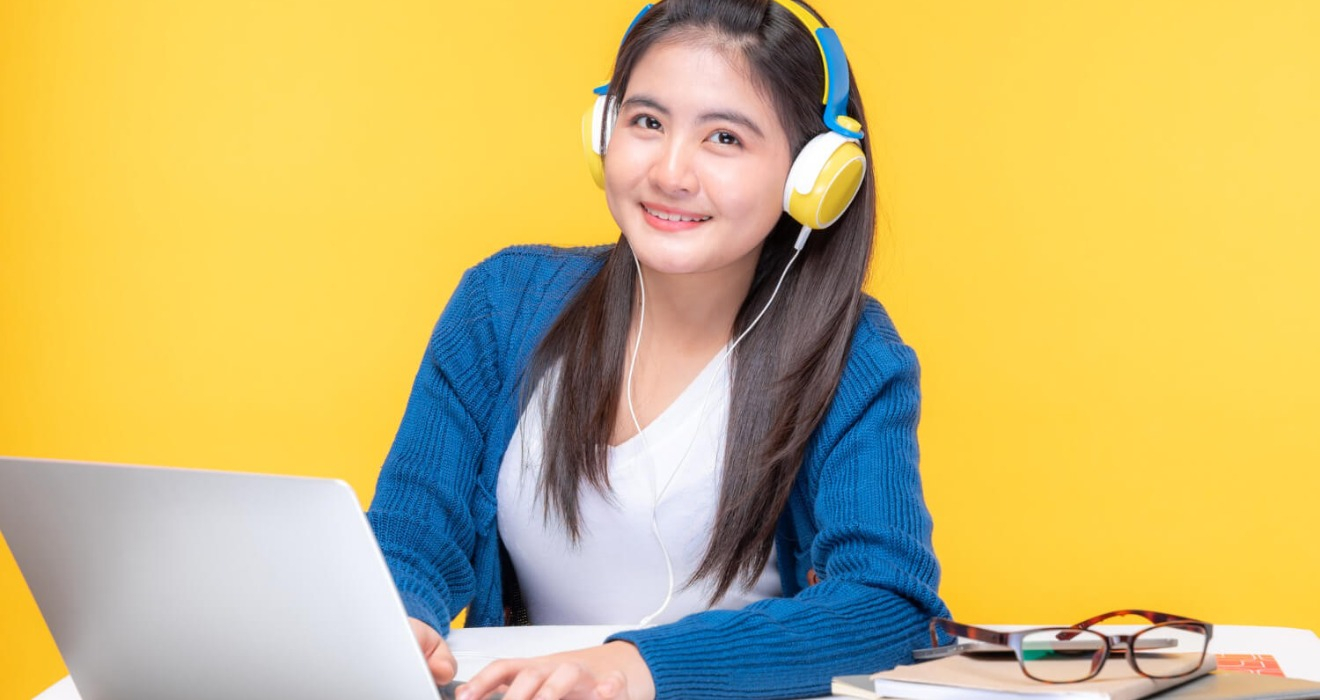
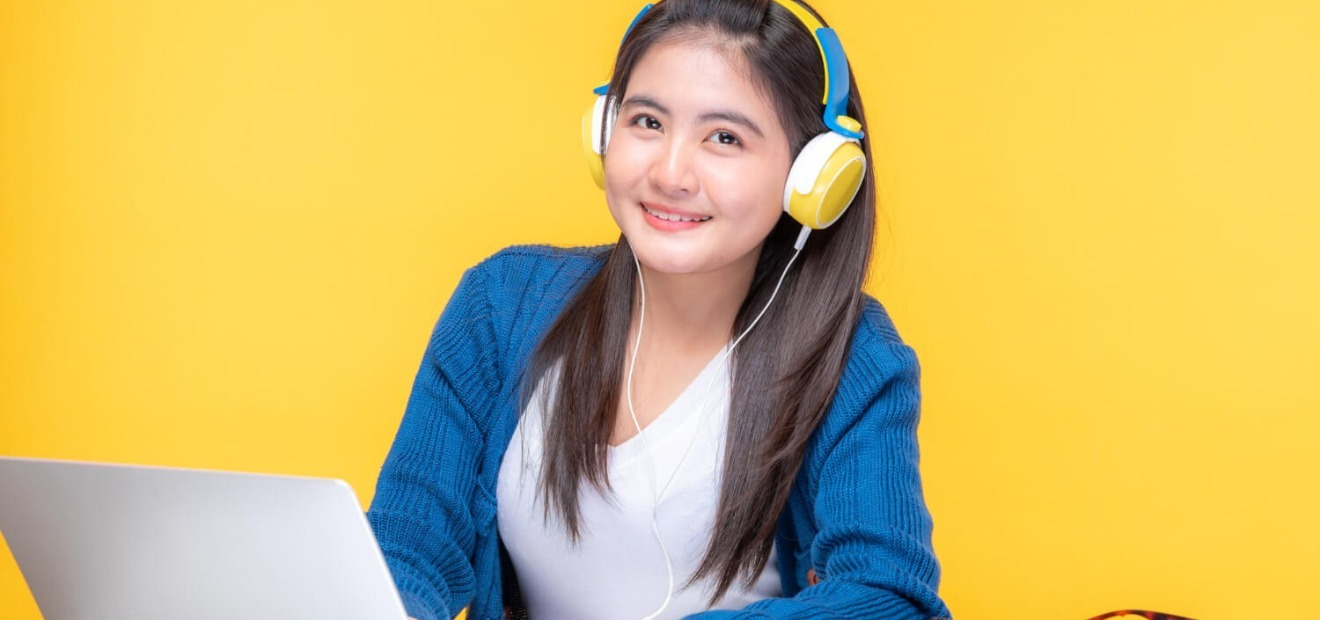
added carousel darken background

Changed region(s): [[0.0, 0.0, 1.0, 1.0]]

diff --git a/index.html b/index.html
@@ -23,7 +23,7 @@
     <link href="https://cdn.jsdelivr.net/npm/bootstrap@5.2.0/dist/css/bootstrap.min.css" rel="stylesheet" integrity="sha384-gH2yIJqKdNHPEq0n4Mqa/HGKIhSkIHeL5AyhkYV8i59U5AR6csBvApHHNl/vI1Bx" crossorigin="anonymous">
 
     <!-- Custom CSS Link ------------------------------------>
-    <link rel="stylesheet" href="styles/style.css">
+    <link rel="stylesheet" href="custom-styles/style.css">
   </head>
 
   <body>
@@ -111,8 +111,8 @@
           <button type="button" data-bs-target="#myCarousel" data-bs-slide-to="2" aria-label="Slide 3"></button>
         </div>
         <div class="carousel-inner">
-          <div class="carousel-item active">
-            <img src="images/cover/cover-5.png" class="img-fluid" alt="First Slide">
+          <div class="carousel-item active custom-img-drk-color">
+            <img src="images/cover/cover-1.png" class="img-fluid" alt=" First Slide">
   
             <div class="container">
               <div class="carousel-caption">
@@ -123,7 +123,7 @@
             </div>
           </div>
           <div class="carousel-item">
-            <img src="images/cover/cover-6.jpg" class="img-fluid" alt="Second Slide">
+            <img src="images/cover/cover-2.jpg" class="img-fluid" alt="Second Slide">
   
             <div class="container">
               <div class="carousel-caption">
@@ -134,7 +134,7 @@
             </div>
           </div>
           <div class="carousel-item">
-            <img src="images/cover/cover-7.jpg" class="img-fluid" alt="Third Slide">
+            <img src="images/cover/cover-3.jpg" class="img-fluid" alt="Third Slide">
   
             <div class="container">
               <div class="carousel-caption">

diff --git a/custom-styles/style.css b/custom-styles/style.css
@@ -1,0 +1,15 @@
+
+/* .custom-img-dark-color{
+    filter: brightness(60%);
+} */
+
+.custom-img-drk-color::before {
+    content:"";
+    position:absolute;
+    display: block;
+    top:0;
+    bottom:0;
+    left:0;
+    right:0;
+    background:rgba(0,0,0,0.5);
+  }
